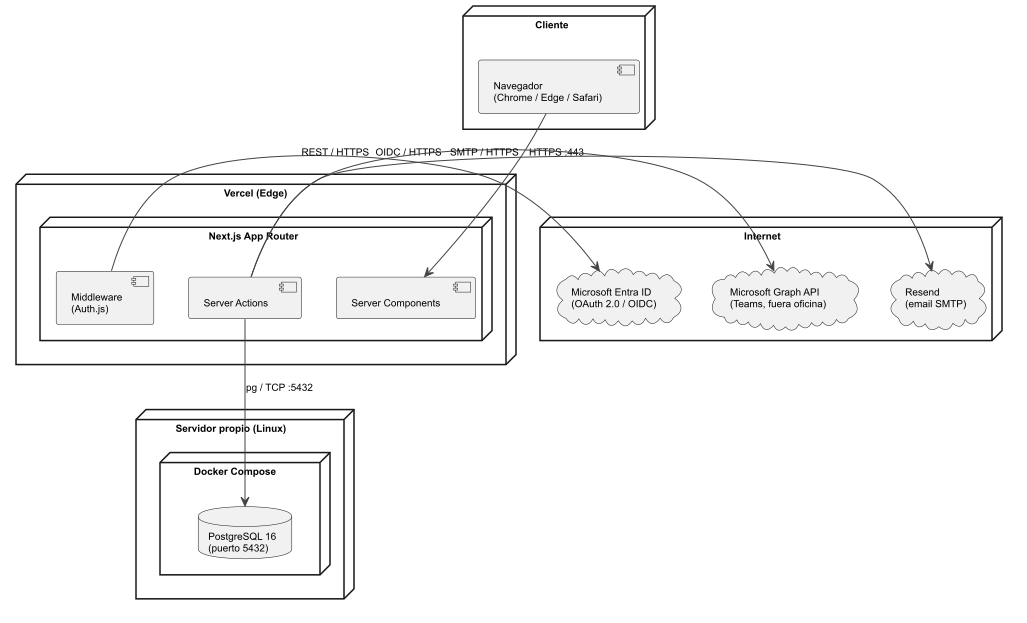
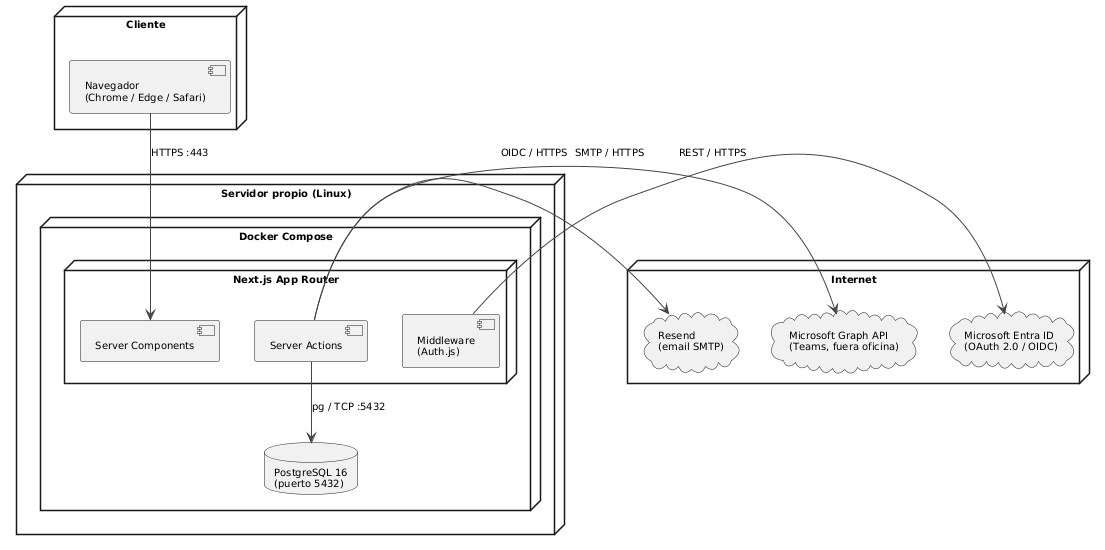
(tfg): actualizar diagrama despliegue

Changed region(s): [[0.0, 0.0, 0.9971, 0.9891], [0.0312, 0.0, 0.2493, 0.0618], [0.8413, 0.2782, 0.8724, 0.3091]]

diff --git a/src/lib/utils.ts b/src/lib/utils.ts
@@ -9,7 +9,7 @@ export function cn(...inputs: ClassValue[]) {
 
 /**
  * Convierte un Date a "yyyy-MM-dd" usando los componentes de hora LOCAL del
- * entorno donde se ejecuta (servidor en UTC en Vercel). No usar en código
+ * entorno donde se ejecuta (servidor en UTC). No usar en código
  * cliente si el usuario puede estar en una zona distinta a UTC; en ese caso
  * usar `toClientDateStr`.
  */

diff --git a/docs/TFG/MARCO_TEORICO.md b/docs/TFG/MARCO_TEORICO.md
@@ -196,7 +196,7 @@ sin posibilidad de extensión a otros módulos ESS (KALENA, 2026).
 _Tabla 2. Comparativa de soluciones de gestión de espacios. \* Precio no público, requiere contacto comercial. Fuente: Precios consultados en webs oficiales en marzo de 2026._
 
 **Análisis:** ninguna solución del mercado combina en un único producto la gestión de
-parking y oficinas con integración nativa en Microsoft 365 Graph y capacidad de extensión hacia
+parking y oficinas con SSO Microsoft 365 y capacidad de extensión hacia
 un portal del empleado completo. Las herramientas más cercanas al caso de uso (Skedda,
 KALENA) funcionan de forma aislada y requieren herramientas adicionales para cubrir el resto
 de necesidades de GRUPOSIETE.
@@ -224,10 +224,10 @@ Martin Fowler es claro: «casi todas las historias de éxito con microservicios 
 monolito que se volvió demasiado grande; casi todos los sistemas construidos desde cero como
 microservicios han acabado en problemas serios» (Fowler, 2015).
 
-El patrón de arquitectura plug-in extiende el monolito modular definiendo un sistema
+El patrón de arquitectura plugin extiende el monolito modular definiendo un sistema
 core con puntos de extensión donde los módulos se conectan de forma independiente (Newman,
 2019). Este patrón se mapea directamente al portal del TFG: el core es el shell de la aplicación
-(autenticación, navegación, configuración del sistema) y los módulos plug-in son las
+(autenticación, navegación, configuración del sistema) y los módulos plugin son las
 funcionalidades activables o desactivables desde el panel de administración sin modificar código
 base.
 
@@ -276,17 +276,17 @@ utiliza el ecosistema de Microsoft como columna vertebral de su actividad diaria
 herramienta que no esté integrada con este ecosistema generará en los empleados una negativa a
 la hora de adoptarlo en su flujo de trabajo normal por lo que terminarían ignorándolo (como
 ocurre ahora). La integración con Microsoft Entra ID como proveedor de identidad único, con Microsoft
-Graph API para sincronización de calendarios y con Teams para notificaciones, es por tanto una
+la preparación para Graph API y Teams, es por tanto una
 condición necesaria y no una ventaja diferencial.
 
 Por todo lo anterior, el desarrollo a medida de un portal del empleado modular,
 construido sobre Next.js, TypeScript y PostgreSQL autoalojado, integrado nativamente en
 Microsoft 365, se presenta como la única alternativa que responde simultáneamente a la totalidad de los requisitos
-de GRUPOSIETE: cobertura funcional completa para el MVP, integración real con M365,
+de GRUPOSIETE: cobertura funcional completa para el MVP, SSO real con M365,
 arquitectura extensible a módulos futuros y coste operativo cero en licencias.
 
 **Hipótesis**: la implementación de un portal del empleado modular basado en Next.js,
-PostgreSQL y Microsoft 365 Graph resolverá la fragmentación entre sedes de GRUPOSIETE,
+PostgreSQL y Microsoft Entra ID resolverá la fragmentación entre sedes de GRUPOSIETE,
 optimizando el uso de espacios corporativos sin inversiones adicionales en licencias de software
 o cambios de sede, y proporcionando diversos módulos de panel del empleado y una base
 arquitectónica extensible a módulos futuros más complejos de gestión avanzada de RRHH y
@@ -311,7 +311,7 @@ extensible a módulos futuros de gestión de recursos humanos.
   lógico y físico de datos en PostgreSQL, y los diagramas de despliegue y paquetes (Capítulo 3).
 - **OS3:** Implementar y validar el MVP funcional con pruebas unitarias (Vitest) y pruebas
   end-to-end (Playwright), con la base de datos PostgreSQL desplegada en servidor propio y la
-  aplicación en Vercel mediante pipeline CI/CD con GitHub Actions (Capítulo 4).
+  aplicación en servidor propio mediante Docker y pipeline CI/CD con GitHub Actions (Capítulo 4).
 - **OS4:** Evaluar la solución mediante métricas de cobertura de tests, rendimiento (Core Web
   Vitals), verificar la trazabilidad entre requisitos y entrega, y proponer un roadmap de
   evolución futura (Capítulo 5).
@@ -325,7 +325,7 @@ metodologías (como el ciclo de vida en cascada o marcos ágiles puros como Scru
 capacidad para gestionar la incertidumbre de los requisitos mediante iteraciones cortas, su
 énfasis en la documentación formal de las disciplinas de análisis y diseño, y su alineación con la
 estructura de entregables del TFG. La adaptación individual concentra todos los roles en el
-mismo autor, con supervisión iterativa semanal por parte del director del TFG.
+mismo autor, con supervisión iterativa semanal por parte del tutor académico.
 
 1. **Primera iteración - Requisitos (Capítulo 2):** a partir de sesiones de levantamiento de
    información con personas clave de GRUPOSIETE, se elabora el modelo del dominio, se
@@ -340,7 +340,7 @@ mismo autor, con supervisión iterativa semanal por parte del director del TFG.
 3. **Tercera iteración - Implementación (Capítulo 4):** el MVP se construye de forma
    incremental comenzando por la capa de autenticación SSO con Microsoft Entra ID, seguida de
    los módulos de reservas y el panel de administración, con pruebas unitarias (Vitest) y end-to-end
-   (Playwright). El despliegue de la aplicación se realiza en Vercel con la base de datos PostgreSQL en servidor propio, mediante CI/CD con GitHub Actions.
+   (Playwright). El despliegue de la aplicación se realiza en servidor propio mediante Docker con la base de datos PostgreSQL, mediante CI/CD con GitHub Actions.
 
 4. **Cuarta iteración - Evaluación y conclusiones (Capítulo 5):** se evalúa la solución
    mediante métricas de cobertura de tests, rendimiento (Core Web Vitals), se verifica la

diff --git a/docs/TFG/CONCLUSIONES.md b/docs/TFG/CONCLUSIONES.md
@@ -39,7 +39,7 @@ La decisión de ampliar el alcance durante esta fase resultó plenamente acertad
 
 La disciplina de análisis (sección 3.1) derivó sistemáticamente las clases de análisis desde los casos de uso del capítulo 2 y el modelo del dominio. Las veinticinco clases resultantes se organizaron en cuatro capas (vista, controlador, repositorio, dominio) con cuatro patrones de colaboración documentados mediante diagramas: Apertura para la carga inicial de disponibilidad, El delgado para acciones de escritura simple, El gordo para flujos que coordinan múltiples repositorios y Eliminación segura para operaciones de cancelación con verificación de estado previo.
 
-La transición al diseño (sección 3.2) se documentó mediante una tabla de trazabilidad que mapea cada clase de análisis a su equivalente de diseño. Las vistas se materializaron como Server Components de Next.js, los controladores como Server Actions, los repositorios como funciones de consulta Drizzle y el modelo del dominio como el esquema Drizzle (883 líneas). El diagrama C4 situó el sistema en su contexto, el diagrama de despliegue ubicó los nodos físicos (Vercel + PostgreSQL autoalojado) y el diagrama de paquetes anticipó la estructura de directorios del repositorio, verificada posteriormente en la sección 4.3.
+La transición al diseño (sección 3.2) se documentó mediante una tabla de trazabilidad que mapea cada clase de análisis a su equivalente de diseño. Las vistas se materializaron como Server Components de Next.js, los controladores como Server Actions, los repositorios como funciones de consulta Drizzle y el modelo del dominio como el esquema Drizzle (883 líneas). El diagrama C4 situó el sistema en su contexto, el diagrama de despliegue ubicó los nodos físicos (servidor propio con Docker + PostgreSQL autoalojado) y el diagrama de paquetes anticipó la estructura de directorios del repositorio, verificada posteriormente en la sección 4.3.
 
 El diseño aguantó bastante bien el salto a la implementación. Los diagramas y las decisiones tomadas durante el análisis no generaron sorpresas graves al llegar al código, lo que confirma que la fase de análisis y diseño no fue un trámite vacío sino una base sólida sobre la que construir.
 
@@ -47,13 +47,13 @@ Una decisión que merece mención aparte es la migración de Supabase a PostgreS
 
 ### 5.1.3. OS3 - Implementación y validación
 
-**OS3:** Implementar y validar el MVP funcional con pruebas unitarias (Vitest) y pruebas end-to-end (Playwright), con la base de datos PostgreSQL desplegada en servidor propio y la aplicación en Vercel mediante pipeline CI/CD con GitHub Actions.
+**OS3:** Implementar y validar el MVP funcional con pruebas unitarias (Vitest) y pruebas end-to-end (Playwright), con la base de datos PostgreSQL desplegada en servidor propio y la aplicación en servidor propio mediante Docker y pipeline CI/CD con GitHub Actions.
 
 El MVP implementa diez módulos funcionales accesibles desde el dashboard (administración, ajustes, directorio, mis-reservas, oficinas, panel de analíticas, parking, tablón, vacaciones, visitantes), cada uno correspondiente a un estado del diagrama de contexto (sección 4.1). Los cuatro casos de uso representativos (reservarPlaza(), cederPlaza(), gestionarSolicitudAusencia() y registrarVisitante()) se mostraron con su interfaz real en la sección 4.2, evidenciando la correspondencia entre el diseño y el código.
 
 La lógica compartida entre parking y oficinas se parametrizó mediante factories (buildCalendarAction, buildCessionActions), evitando la duplicación y respetando el principio de composición sobre herencia. Las Server Actions materializaron directamente los controladores del diseño, eliminando la capa de serialización REST y la duplicación de tipos. La autorización se implementó mediante guardas explícitas (requireAuth, requireAdmin, requireManagerOrAbove) en la capa de aplicación, sin delegar en el sistema de base de datos.
 
-La validación se ejecuta en dos niveles: 45 archivos de test con Vitest cubren la lógica de Server Actions, queries Zod y utilidades, mientras que las pruebas end-to-end con Playwright verifican los flujos completos de los casos de uso representativos. El pipeline CI/CD mediante GitHub Actions ejecuta pnpm check (typecheck, lint, format y tests) en cada push, con despliegue automático en Vercel al superar todas las comprobaciones (sección 4.4).
+La validación se ejecuta en dos niveles: 45 archivos de test con Vitest cubren la lógica de Server Actions, queries Zod y utilidades, mientras que las pruebas end-to-end con Playwright verifican los flujos completos de los casos de uso representativos. El pipeline CI/CD mediante GitHub Actions ejecuta pnpm check (typecheck, lint, format y tests) en cada push, con despliegue automático al superar todas las comprobaciones (sección 4.4).
 
 El resultado final me parece muy completo, al nivel de una aplicación comercial. Los diez módulos previstos en el alcance están implementados y funcionales, y la interfaz transmite una sensación de producto terminado, no de prototipo académico.
 
@@ -84,7 +84,7 @@ La auditoría con Lighthouse sobre la página principal del dashboard arroja las
 
 ![Resultados de Lighthouse](images/lighthouse.png)
 
-Las puntuaciones máximas en rendimiento, buenas prácticas y SEO reflejan que la aplicación se beneficia del renderizado en servidor de Next.js (que minimiza el JavaScript enviado al cliente) y de una estructura HTML semántica. Los 4 puntos pendientes en accesibilidad corresponden a contrastes de color en elementos secundarios, subsanables sin cambios estructurales.
+Las puntuaciones máximas en rendimiento, buenas prácticas y SEO reflejan que la aplicación se beneficia del renderizado en servidor de Next.js (que minimiza el JavaScript enviado al cliente) y de una estructura HTML semántica. Los 4 puntos pendientes en accesibilidad corresponden a contrastes de color en elementos secundarios, subsanables con cambios mínimos.
 
 #### Trazabilidad requisitos → entrega
 

diff --git a/docs/TFG/ANALISIS_DISENO.md b/docs/TFG/ANALISIS_DISENO.md
@@ -153,9 +153,9 @@ El flujo de aprobación de ausencias es el más complejo del sistema. La secuenc
 
 ### 3.3.6. Diagrama de despliegue
 
-El diagrama de despliegue muestra los nodos físicos del sistema y cómo se conectan. La aplicación Next.js se ejecuta en la infraestructura Edge de Vercel, lo que garantiza baja latencia para los usuarios distribuidos por toda España. PostgreSQL 16 se ejecuta en un servidor Linux propio bajo Docker Compose, accesible únicamente desde las Server Actions mediante conexión TCP directa.
+El diagrama de despliegue muestra los nodos físicos del sistema y cómo se conectan. La aplicación Next.js se ejecuta en un servidor propio mediante Docker Compose. PostgreSQL 16 se ejecuta en un servidor Linux propio bajo Docker Compose, accesible únicamente desde las Server Actions mediante conexión TCP directa.
 
 ![Diagrama de despliegue](../../modelosUML/svg/despliegue.svg)
 <sub>[Código fuente](../../modelosUML/puml/despliegue.puml)</sub>
 
-La separación entre el servidor de aplicaciones y el de bases de datos (servidor propio) responde al RNF-02: si Vercel experimenta una degradación, la base de datos permanece intacta y accesible para otros consumidores. La ausencia de proveedores cloud para la persistencia (no hay RDS, no hay Supabase) materializa el RNF-07: el sistema puede migrarse a otra infraestructura sin reescribir consultas ni cambiar dependencias.
+La separación entre el servidor de aplicaciones y el de bases de datos (servidor propio) responde al RNF-02: si el servidor de aplicaciones experimenta una degradación, la base de datos permanece intacta y accesible para otros consumidores. La ausencia de proveedores cloud para la persistencia (no hay RDS, no hay Supabase) materializa el RNF-07: el sistema puede migrarse a otra infraestructura sin reescribir consultas ni cambiar dependencias.

diff --git a/docs/TFG/IMPLEMENTACION.md b/docs/TFG/IMPLEMENTACION.md
@@ -123,10 +123,10 @@ La disciplina de pruebas del ciclo RUP se materializa en dos niveles. Las prueba
 | Unitarias  | Vitest      | `src/lib/actions/`, `src/lib/queries/` |
 | End-to-end | Playwright  | Flujos de los 4 CdU representativos    |
 
-El pipeline CI/CD mediante GitHub Actions ejecuta `pnpm check` (typecheck, lint, format y tests) en cada push a la rama principal. El despliegue en Vercel se activa automáticamente al superar todas las comprobaciones, garantizando que solo el código validado llega a producción.
+El pipeline CI/CD mediante GitHub Actions ejecuta `pnpm check` (typecheck, lint, format y tests) en cada push a la rama principal. El despliegue se activa automáticamente al superar todas las comprobaciones, garantizando que solo el código validado llega a producción.
 
 | Pipeline                         | Verificación                                |
 | -------------------------------- | ------------------------------------------- |
-| ![CI/CD](images/ci-pipeline.png) | `pnpm check` → `pnpm build` → Vercel deploy |
+| ![CI/CD](images/ci-pipeline.png) | `pnpm check` → `pnpm build` → Docker deploy |
 
 La cobertura de tests, el pipeline de integración continua y el despliegue automatizado conforman la evidencia de que el MVP responde a los requisitos del capítulo 2 y sigue fielmente el diseño del capítulo 3, cerrando así el ciclo de trazabilidad que el capítulo 5 verificará formalmente.

diff --git a/docs/TFG/REQUISITOS.md b/docs/TFG/REQUISITOS.md
@@ -125,7 +125,7 @@ El sistema interactúa con dos servicios externos que no son actores en el senti
 
 Los tres diagramas de la sección anterior presentan la totalidad de los casos de uso del sistema, agrupados por dominio (espacios, personas y administración) y vinculados a los actores que los inician mediante la herencia visible en cada vista.
 
-El desarrollo del MVP se organizó en incrementos sucesivos priorizando los casos de uso mediante MoSCoW (Must, Should, Could, Won't). El primer incremento abordó la autenticación mediante Entra ID y la estructura base del portal (`cerrarSesion()`). El segundo implementó el módulo de parking con reservas, cesiones y gestión de visitantes; el tercero añadió el módulo de oficinas con reserva de puestos y franjas horarias. El cuarto incremento incorporó el módulo de vacaciones con el flujo completo de aprobación en dos niveles, seguida del tablón de anuncios y el directorio de empleados. El quinto incremento cubrió el panel de administración (gestión de plazas, usuarios, entidades y configuración del sistema) junto con el módulo de ajustes. El último incremento integró el panel de analíticas para administradores.
+El desarrollo del MVP se organizó en incrementos sucesivos priorizando los casos de uso más esenciales. El primer incremento abordó la autenticación mediante Entra ID y la estructura base del portal (`cerrarSesion()`). El segundo implementó el módulo de parking con reservas, cesiones y gestión de visitantes; el tercero añadió el módulo de oficinas con reserva de puestos y franjas horarias. El cuarto incremento incorporó el módulo de vacaciones con el flujo completo de aprobación en dos niveles, seguida del tablón de anuncios y el directorio de empleados. El quinto incremento cubrió el panel de administración (gestión de plazas, usuarios, entidades y configuración del sistema) junto con el módulo de ajustes. El último incremento integró el panel de analíticas para administradores.
 
 ### 2.3.3. Detalle de casos de uso representativos
 